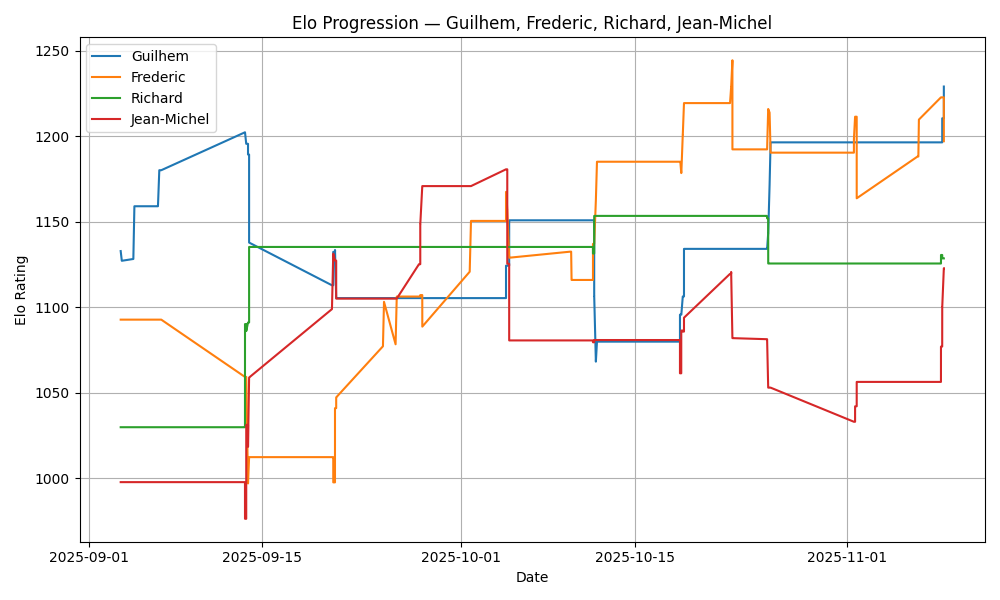
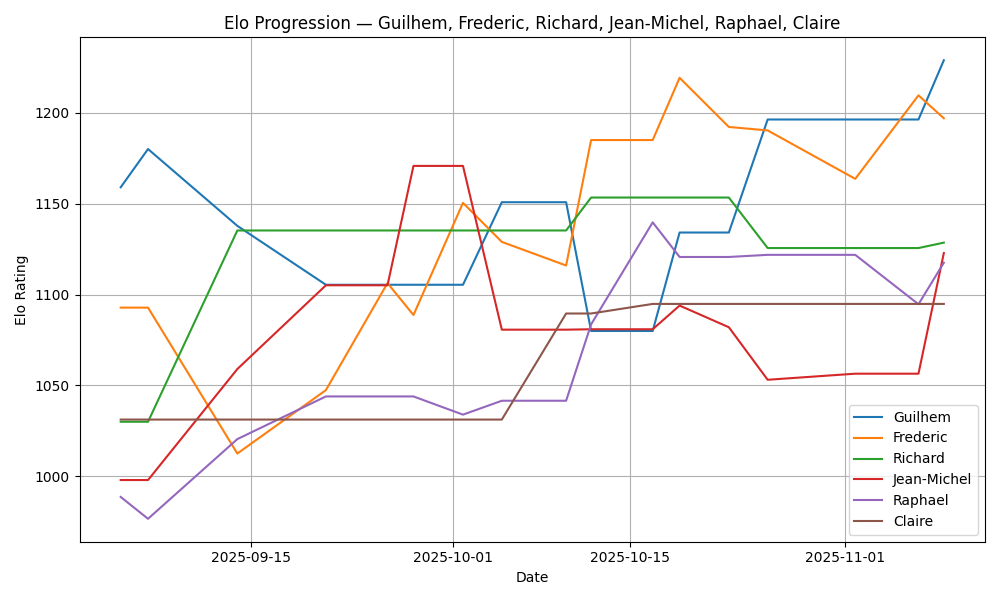
graphes plus lisses

diff --git a/visualizer.py b/visualizer.py
@@ -6,7 +6,7 @@ class Visualizer:
     def __init__(self, data: Data):
         self.data = data
     
-    def plot_elos(self, players_per_plot: int = 3, save_file: str = ""):
+    def plot_elos(self, players_per_plot: int = 4, save_file: str = ""):
         # Extract shared time axis
         dates = [g.date for g in self.data.games]
 
@@ -38,7 +38,16 @@ class Visualizer:
 
             for player in group:
                 elo_values = [elo[player] for elo in self.data.elo]
-                plt.plot(dates, elo_values, label=player)
+
+                # Remove duplicates of dates
+                dates_no_dup = []
+                elo_values_no_dup = []
+                for i in range(len(dates)):
+                    if i == len(dates) - 1 or (dates[i+1] - dates[i]).days >= 1:
+                        dates_no_dup.append(dates[i])
+                        elo_values_no_dup.append(elo_values[i])
+                print(len(dates), len(dates_no_dup))
+                plt.plot(dates_no_dup, elo_values_no_dup, label=player)
 
             plt.xlabel("Date")
             plt.ylabel("Elo Rating")

diff --git a/main.py b/main.py
@@ -76,7 +76,7 @@ while continuer:
     elif choix == 5:
         players_per_plot = input("Entrez le nombre de joueur par graphe : ")
         if players_per_plot == "":
-            players_per_plot = "3"
+            players_per_plot = "6"
         players_per_plot = int(players_per_plot)
         save_path = input("Entrez le chemin d'enregistrement : ")
         visualizer.plot_elos(players_per_plot, save_path)
